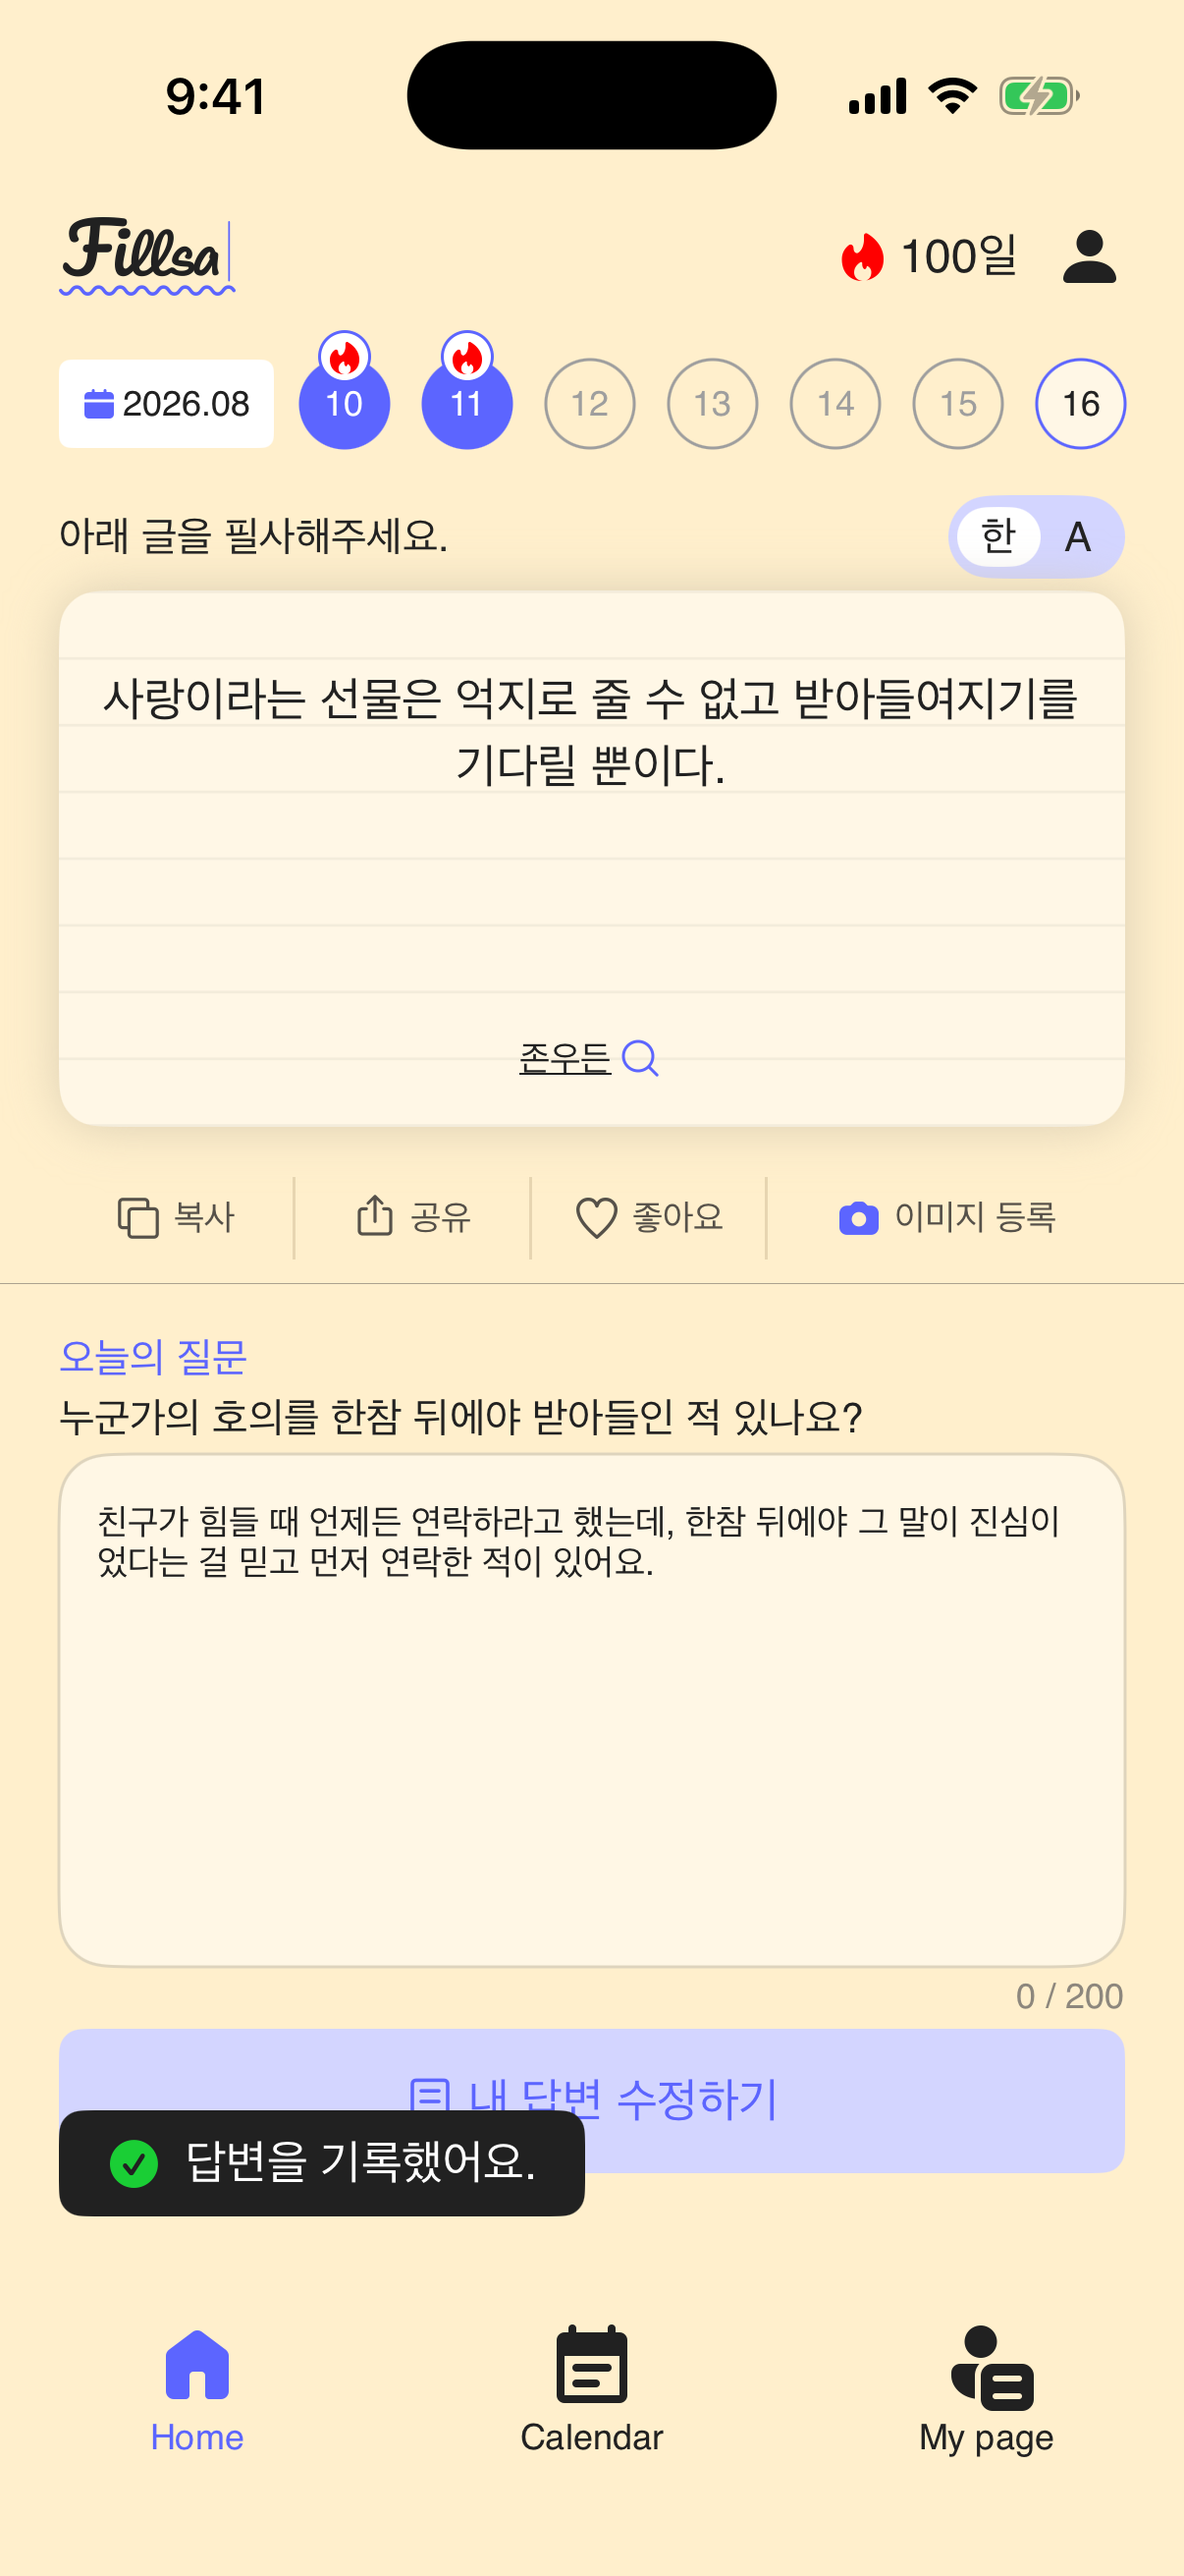
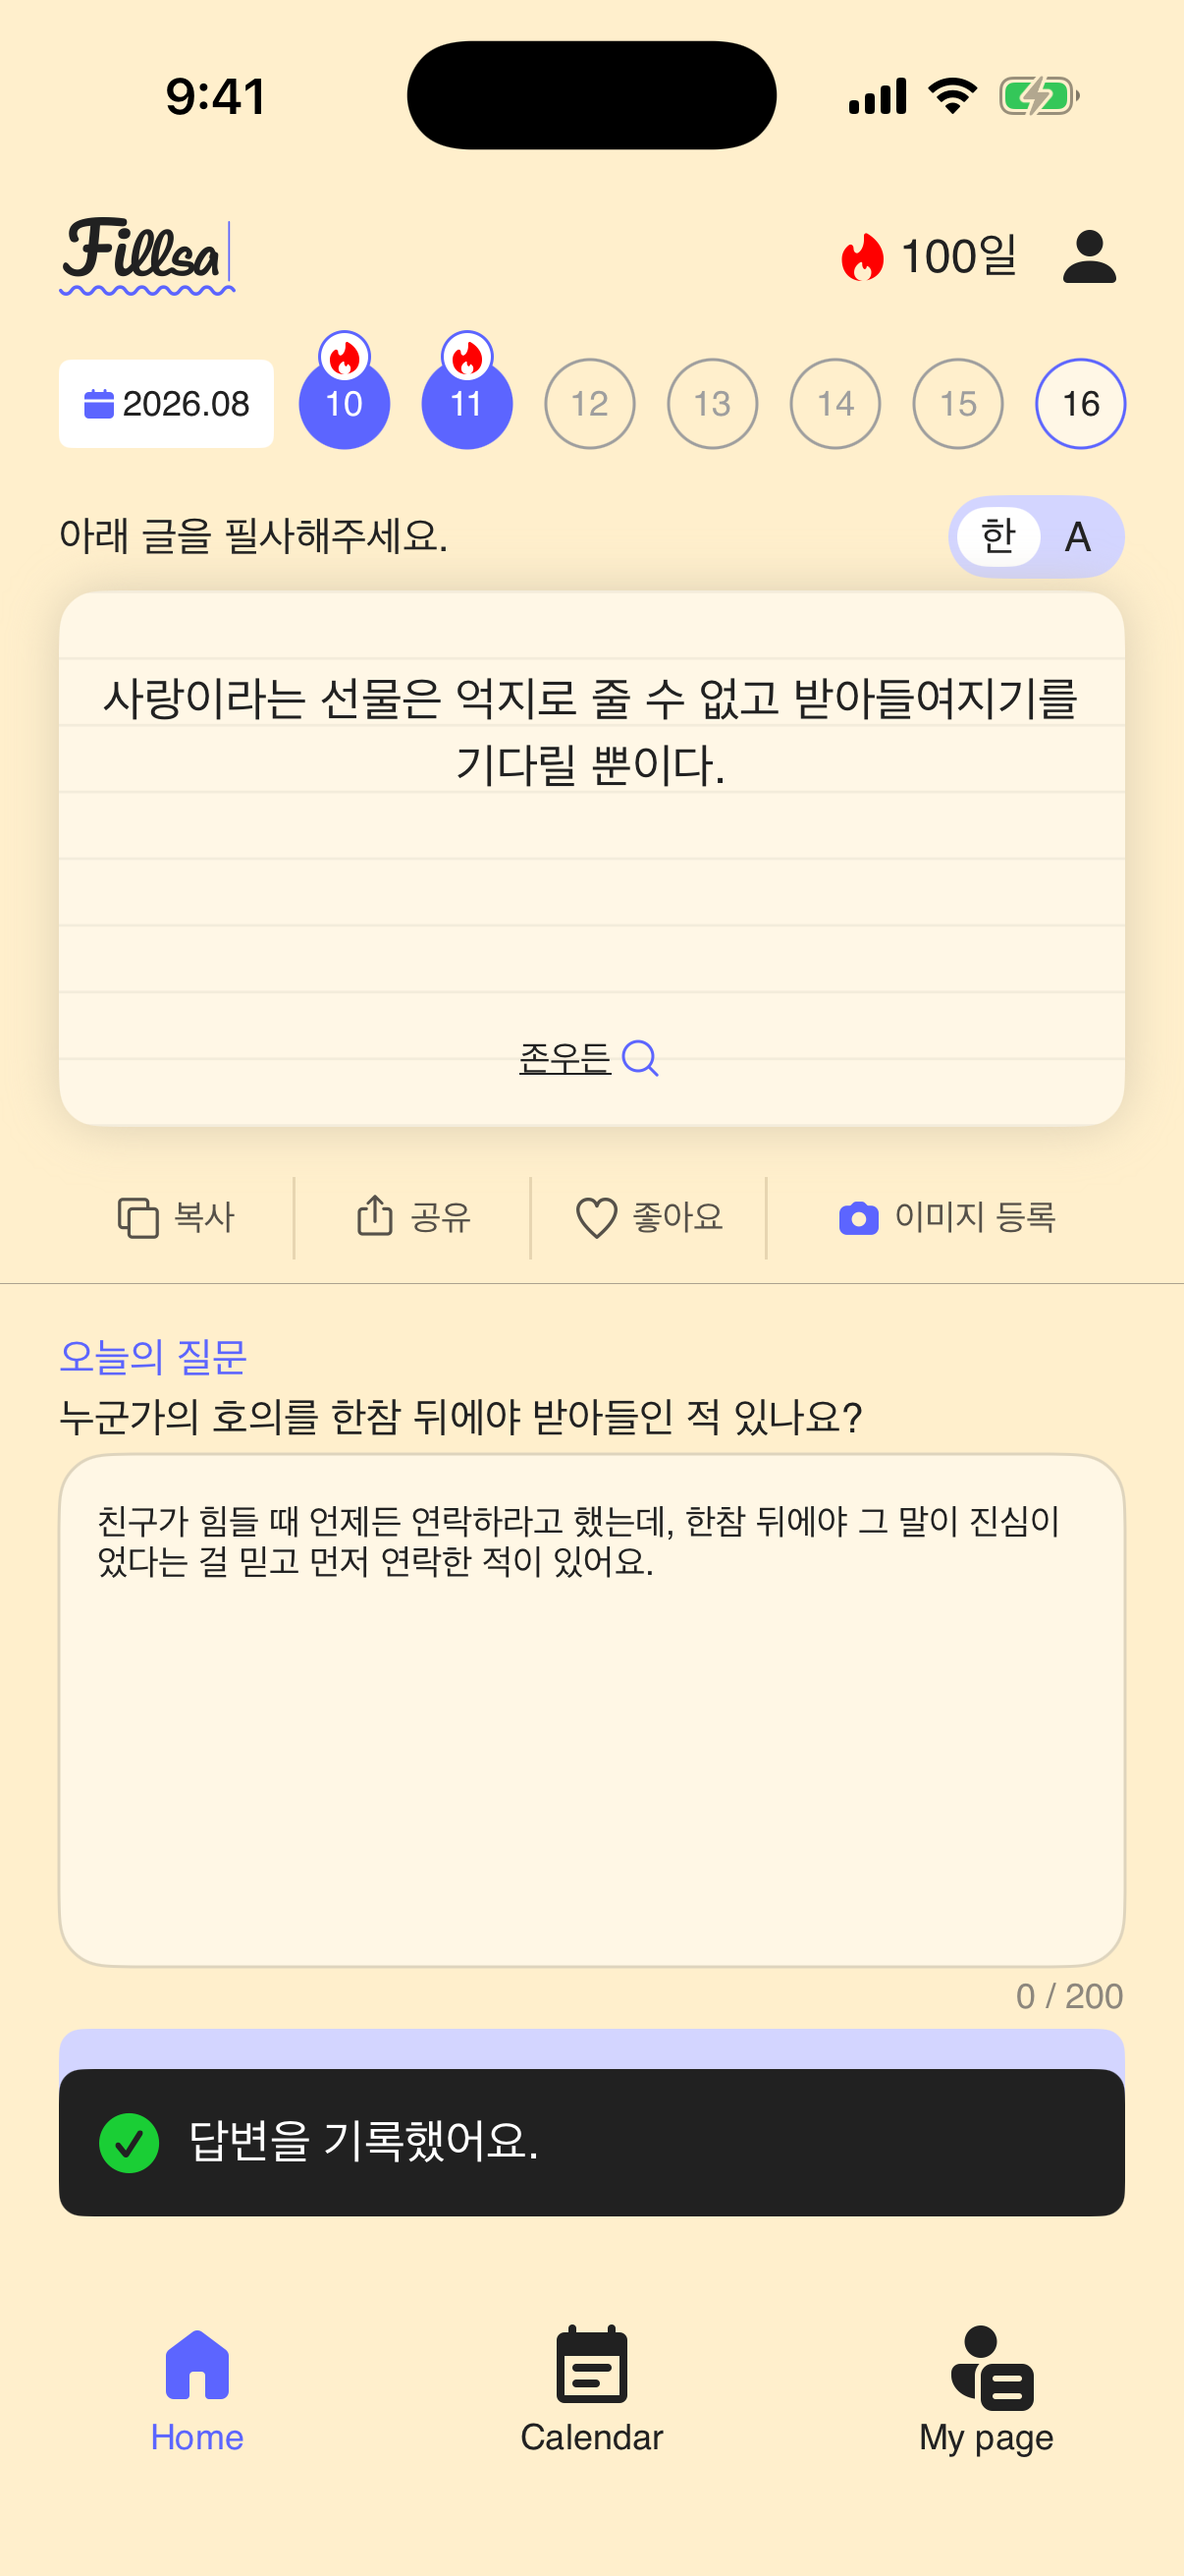
fix: match Home answer toast and dismiss keyboard after save

Changed region(s): [[0.0307, 0.8032, 0.9511, 0.865]]

diff --git a/Fiilsa/Presentation/Home/HomeView.swift b/Fiilsa/Presentation/Home/HomeView.swift
@@ -162,17 +162,19 @@ struct HomeView: View {
             HStack(spacing: 8) {
                 if presentation == .success {
                     Image(systemName: "checkmark.circle.fill")
-                        .font(.system(size: 16, weight: .semibold))
+                        .font(.system(size: 20, weight: .semibold))
                         .foregroundStyle(FillsaColor.onToastMessage2)
+                        .frame(width: 24, height: 24)
                 }
                 Text(message)
                     .font(FillsaTypography.body2)
                     .foregroundStyle(FillsaColor.onToastMessage1)
             }
-            .padding(.horizontal, 16)
-            .frame(height: 36)
+            .padding(.horizontal, presentation == .success ? 12 : 16)
+            .frame(maxWidth: presentation == .success ? .infinity : nil, alignment: .leading)
+            .frame(height: presentation == .success ? 50 : 36)
             .background(FillsaColor.toastMessageBackground, in: RoundedRectangle(cornerRadius: 8))
-            .padding(.leading, 20)
+            .padding(.horizontal, presentation == .success ? 20 : 0)
             .padding(.bottom, 28)
         }
     }

diff --git a/Fiilsa/FiilsaApp.swift b/Fiilsa/FiilsaApp.swift
@@ -249,6 +249,18 @@ struct FiilsaApp: App {
             NoticeDetailUITestLaunchConfiguration.makeStore()
         } else if MemoUITestLaunchConfiguration.isEnabled {
             MemoUITestLaunchConfiguration.makeStore()
+        } else if ProcessInfo.processInfo.arguments.contains("-ui-testing-home") {
+            Store(initialState: launchState) {
+                AppFeature()
+            } withDependencies: {
+                $0.homeUseCases.saveAnswer = { answer, dailyQuoteSeq in
+                    AnswerResponse(
+                        memberQuoteSeq: dailyQuoteSeq,
+                        answer: answer,
+                        answeredAt: "2026-10-07T12:00:00"
+                    )
+                }
+            }
         } else {
             Store(initialState: launchState) {
                 AppFeature()

diff --git a/Fiilsa/Presentation/Home/HomeFigmaComponents.swift b/Fiilsa/Presentation/Home/HomeFigmaComponents.swift
@@ -498,6 +498,9 @@ struct HomeQuestionAnswerCard: View {
             .accessibilityLabel(isEditing ? "내 답변 기록하기" : "내 답변 수정하기")
             .accessibilityHint(isEditing ? "입력한 답변을 현재 홈 화면에 기록합니다." : "기록한 답변을 수정합니다.")
         }
+        .onChange(of: isEditing) { _, editing in
+            if !editing { isAnswerFocused = false }
+        }
     }
 
     private var limitedAnswer: Binding<String> {

diff --git a/docs/design-qa/2026-10-07-ios-home-calendar-answer-qa.md b/docs/design-qa/2026-10-07-ios-home-calendar-answer-qa.md
@@ -15,7 +15,7 @@
 | Component | Figma node | Target state | Final result |
 |---|---|---|---|
 | Home question card | `3110:33783`, `3110:34152`, `3110:34438` | empty, editing, saved | Saved fixture captured; full-frame geometry blocked by viewport mismatch |
-| Home success toast | `3110:34293` | server-confirmed save | 20pt left inset corrected and captured; full-frame geometry blocked by viewport mismatch |
+| Home success toast | `3110:34293` | server-confirmed save | Figma 20pt side insets, 50pt height, 24pt icon matched at runtime; full-frame geometry blocked by viewport mismatch |
 | Calendar completed question card | `2987:22796`, `3051:899` | empty, editing, saved | Pending |
 
 ## Validation rounds
@@ -30,7 +30,13 @@
 
 | Scope | Difference | Fix | Result |
 |---|---|---|---|
-| Home toast and saved card | Runtime fixture screenshot and video show x=20pt toast and saved card; viewport still differs from Figma | No further UI decision without same-size frame | Partial component verification; assembled Home Blocked |
+| Home toast and saved card | After the inset fix, the success toast still used its text's intrinsic width, while Figma `3110:34427` spans 320pt within the 360pt frame | Expanded the success card to the available width, set 50pt height and 24pt icon; retained other toast style | Component width/height corrected; assembled Home still has unequal viewport dimensions |
+
+### Round 3
+
+| Scope | Difference | Fix | Result |
+|---|---|---|---|
+| Saved answer interaction | Existing UI test showed that the keyboard stayed visible after server-confirmed save | Cleared `HomeQuestionAnswerCard` focus when editing ends; injected a deterministic server response in the Home UI fixture | Focused UI test passes; full-frame saved fixture image/video recaptured. Strict 360×821pt assembled comparison remains blocked by 402×874pt runtime |
 
 ## Final assembled-screen result
 
